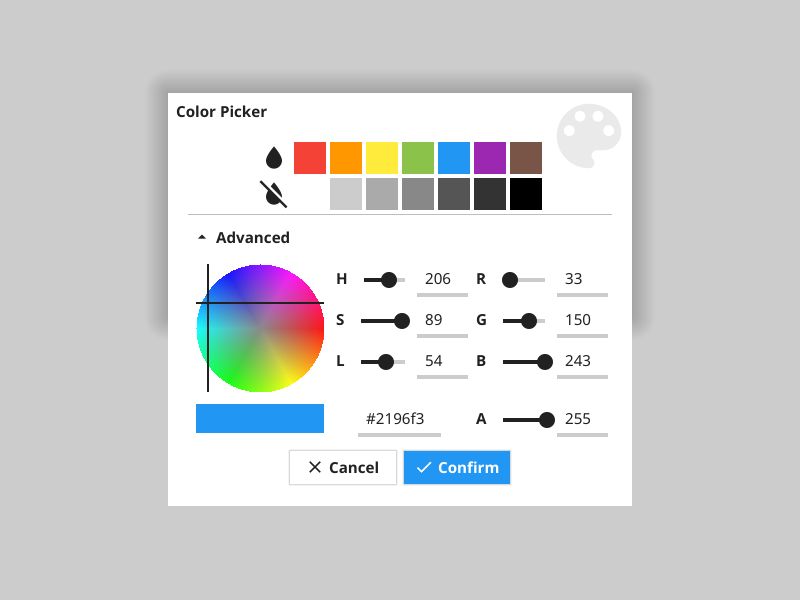
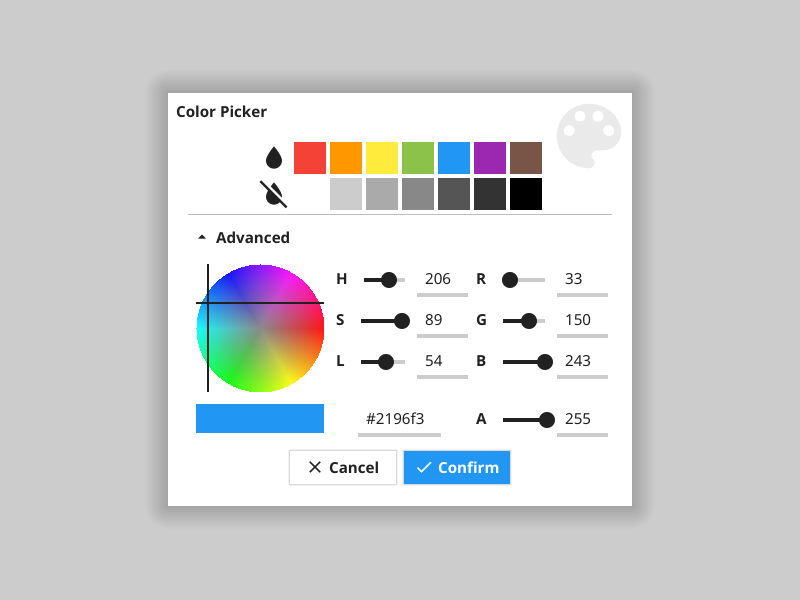
Fix issue where dialog shadows may not resize
The inner size was not updated when our content forced it to.
We cannot override it or it won't shrink again, so this fixes the calculation for shadow size.

Fixes #1370

Changed region(s): [[0.1875, 0.54, 0.8125, 0.87]]

diff --git a/widget/popup.go b/widget/popup.go
@@ -232,7 +232,9 @@ type modalPopUpRenderer struct {
 
 func (r *modalPopUpRenderer) Layout(canvasSize fyne.Size) {
 	padding := r.padding()
-	requestedSize := r.popUp.innerSize.Subtract(padding)
+	innerSize := r.popUp.innerSize.Max(r.popUp.Content.MinSize().Add(padding))
+
+	requestedSize := innerSize.Subtract(padding)
 	size := r.popUp.Content.MinSize().Max(requestedSize)
 	size = size.Min(canvasSize.Subtract(padding))
 	pos := fyne.NewPos((canvasSize.Width-size.Width)/2, (canvasSize.Height-size.Height)/2)
@@ -242,7 +244,7 @@ func (r *modalPopUpRenderer) Layout(canvasSize fyne.Size) {
 	innerPos := pos.Subtract(r.offset())
 	r.bg.Move(innerPos)
 	r.bg.Resize(size.Add(padding))
-	r.LayoutShadow(r.popUp.innerSize, innerPos)
+	r.LayoutShadow(innerSize, innerPos)
 }
 
 func (r *modalPopUpRenderer) MinSize() fyne.Size {

diff --git a/CHANGELOG.md b/CHANGELOG.md
@@ -14,6 +14,7 @@ More detailed release notes can be found on the [releases page](https://github.c
 * [fyne-cli] Android: allow to specify an inline password for the keystore
 * Fixed Card widget MinSize (#1581)
 * Fix missing release tag to enable BuildRelease in Settings.BuildType()
+* Dialog shadow does not resize after Refresh (#1370)
 
 
 ## 1.4.1 - 20 November 2020
